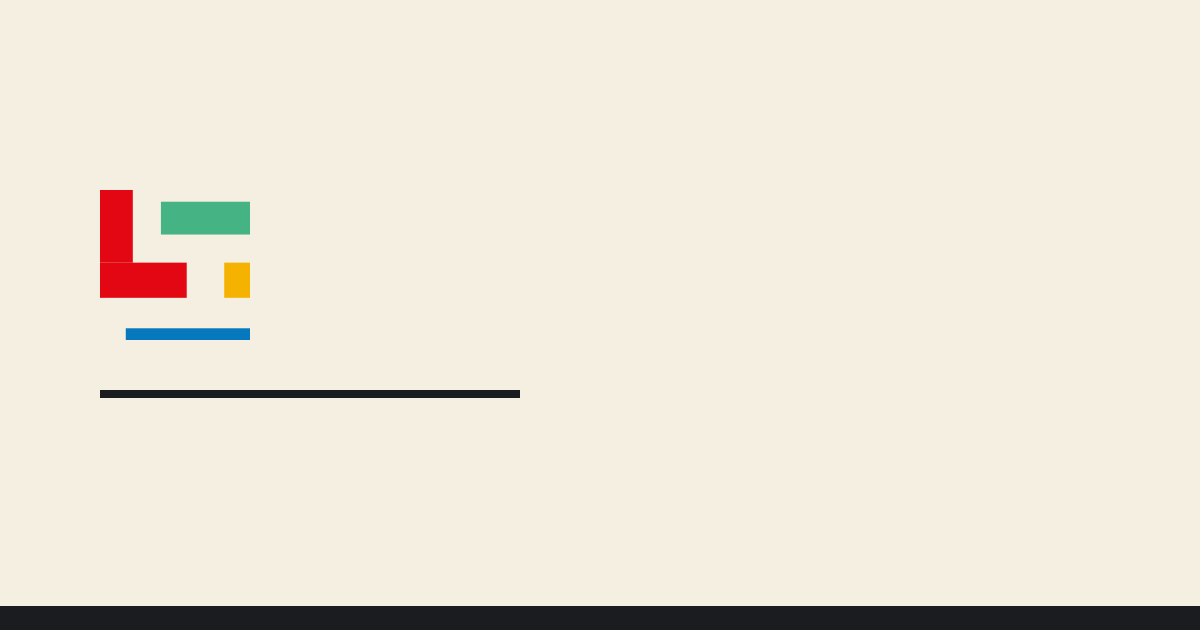
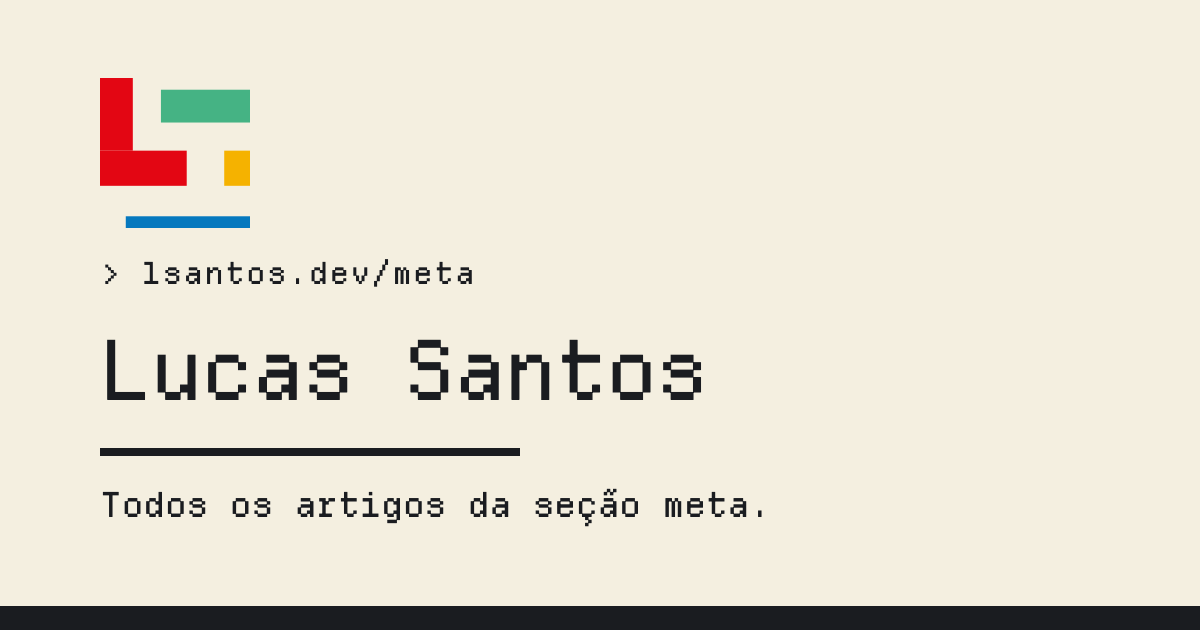
feat: social cards carry text, in the reader's language

diff --git a/scripts/build-og.ts b/scripts/build-og.ts
@@ -1,15 +1,43 @@
-// Generates the per-section social cards. Placeholders until the real design.
+/**
+ * Generates the per-section social cards.
+ *
+ *   node scripts/build-og.ts
+ *
+ * Rendered in Chromium rather than a rasteriser: the card carries text in
+ * Departure Mono, and the browser is the only thing here that reads a woff2.
+ * The output is committed, so this runs by hand, never in the build.
+ */
 import { mkdirSync, readFileSync, writeFileSync } from 'node:fs'
 import { join } from 'node:path'
-import sharp from 'sharp'
+import { chromium } from '@playwright/test'
 import { bold, count, dim, heading, ok } from './lib/cli.ts'
 import { LIGHT_GROUND } from '../src/lib/grounds.mjs'
 
 const OUT_DIR = 'public/og'
-const WIDTH = 1200
-const HEIGHT = 630
+// Mirrors OG_CARD_WIDTH, OG_CARD_HEIGHT and SITE_NAME in src/lib/seo.ts, which
+// this cannot import: that module reaches the Astro-only extensionless imports.
+const OG_CARD_WIDTH = 1200
+const OG_CARD_HEIGHT = 630
+const SITE_NAME = 'lsantos.dev'
 const PAPER = LIGHT_GROUND
 const INK = '#1a1c20'
+
+// The two sentences each language already puts in its own meta description, so
+// the card and the page it belongs to say one thing. `homeDescription` and
+// `sectionDescription` in src/i18n/ui.ts are the originals. Portuguese writes to
+// `public/og/`, English to `public/og/en/`, matching the routes.
+const LOCALES = {
+  pt: {
+    prefix: '',
+    home: 'Artigos sobre desenvolvimento, tecnologia e opinião.',
+    section: (name: string) => `Todos os artigos da seção ${name}.`,
+  },
+  en: {
+    prefix: 'en/',
+    home: 'Articles about software development, technology and opinion.',
+    section: (name: string) => `Every article in the ${name} section.`,
+  },
+}
 
 // One accent per section, taken from the brand mark's four colours.
 const SECTIONS: Record<string, string> = {
@@ -23,40 +51,69 @@ const SECTIONS: Record<string, string> = {
   meta: '#1a1c20',
 }
 
-heading(`build-og: rendering ${Object.keys(SECTIONS).length} section cards`)
-
 const mark = readFileSync('public/favicon.svg', 'utf8')
+const face = readFileSync('public/fonts/DepartureMono-Regular.woff2').toString('base64')
 
-mkdirSync(OUT_DIR, { recursive: true })
+type Copy = (typeof LOCALES)[keyof typeof LOCALES]
 
-for (const [name, accent] of Object.entries(SECTIONS)) {
-  const logo = await sharp(Buffer.from(mark)).resize(150, 150).png().toBuffer()
-
-  // No text: a rasteriser has no fonts guaranteed to be present, and a card
-  // that fails to build is worse than one without a label.
-  const canvas = sharp({
-    create: { width: WIDTH, height: HEIGHT, channels: 4, background: PAPER },
-  }).composite([
-    { input: logo, top: 190, left: 100 },
-    {
-      input: Buffer.from(
-        `<svg width="${WIDTH}" height="24"><rect width="${WIDTH}" height="24" fill="${accent}"/></svg>`,
-      ),
-      top: HEIGHT - 24,
-      left: 0,
-    },
-    {
-      input: Buffer.from(
-        `<svg width="420" height="8"><rect width="420" height="8" fill="${INK}"/></svg>`,
-      ),
-      top: 390,
-      left: 100,
-    },
-  ])
-
-  const png = await canvas.png().toBuffer()
-  writeFileSync(join(OUT_DIR, `${name}.png`), png)
-  console.log(`  ${bold(`${name}.png`)} ${WIDTH}x${HEIGHT} ${dim(`(${(png.length / 1024).toFixed(1)}kB)`)}`)
+function card(section: string, accent: string, copy: Copy): string {
+  const home = section === 'default'
+  const label = `${SITE_NAME}/${copy.prefix}${home ? '' : section}`.replace(/\/$/, '')
+  const tagline = home ? copy.home : copy.section(section)
+  return `<!doctype html><meta charset="utf-8"><style>
+@font-face {
+  font-family: 'Departure Mono';
+  src: url(data:font/woff2;base64,${face}) format('woff2');
+}
+* { margin: 0; box-sizing: border-box; }
+body {
+  inline-size: ${OG_CARD_WIDTH}px;
+  block-size: ${OG_CARD_HEIGHT}px;
+  display: flex;
+  flex-direction: column;
+  justify-content: center;
+  gap: 26px;
+  padding: 0 100px;
+  border-block-end: 24px solid ${accent};
+  background: ${PAPER};
+  color: ${INK};
+  font-family: 'Departure Mono', monospace;
+}
+svg { inline-size: 150px; block-size: 150px; }
+.label { color: ${accent}; font-size: 30px; letter-spacing: 0.06em; }
+h1 { font-size: 82px; font-weight: 400; letter-spacing: -0.02em; }
+p { max-inline-size: 800px; font-size: 34px; line-height: 1.35; }
+hr { inline-size: 420px; block-size: 8px; border: 0; background: ${INK}; }
+</style>
+${mark}
+<div class="label">&gt; ${label}</div>
+<h1>Lucas Santos</h1>
+<hr>
+<p>${tagline}</p>`
 }
 
-ok(`wrote ${count(Object.keys(SECTIONS).length, 'card', 'cards')} to ${OUT_DIR}`)
+const total = Object.keys(SECTIONS).length * Object.keys(LOCALES).length
+
+heading(`build-og: rendering ${total} section cards`)
+
+const browser = await chromium.launch()
+const page = await browser.newPage({ viewport: { width: OG_CARD_WIDTH, height: OG_CARD_HEIGHT } })
+
+for (const copy of Object.values(LOCALES)) {
+  const dir = join(OUT_DIR, copy.prefix)
+  mkdirSync(dir, { recursive: true })
+
+  for (const [name, accent] of Object.entries(SECTIONS)) {
+    await page.setContent(card(name, accent, copy))
+    await page.evaluate(() => document.fonts.ready)
+    const png = await page.screenshot()
+    writeFileSync(join(dir, `${name}.png`), png)
+    console.log(
+      `  ${bold(`${copy.prefix}${name}.png`)} ${OG_CARD_WIDTH}x${OG_CARD_HEIGHT} ${dim(`(${(png.length / 1024).toFixed(1)}kB)`)}`,
+    )
+  }
+}
+
+await browser.close()
+
+ok(`wrote ${count(total, 'card', 'cards')} to ${OUT_DIR}`)

diff --git a/src/lib/seo.ts b/src/lib/seo.ts
@@ -46,15 +46,20 @@ const OG_SECTION_CARDS = [
 export const OG_CARD_WIDTH = 1200
 export const OG_CARD_HEIGHT = 630
 
+// Portuguese cards are the root of `public/og/`, every translated set a
+// directory named after its language. Also in sync with `scripts/build-og.ts`.
+const OG_CARD_LOCALES = ['en']
+
 /**
  * Takes the section URL, not its display name: the file is named after the URL.
  * The last segment is what names the card, because the English routes pass a
  * locale-prefixed path (`/en/infra/`) that the breadcrumb needs.
  */
-export function sectionOgImage(sectionUrl?: string): string {
+export function sectionOgImage(lang: string, sectionUrl?: string): string {
+  const dir = OG_CARD_LOCALES.includes(lang) ? `${lang}/` : ''
   const section = sectionUrl?.replace(/^\/+|\/+$/g, '').split('/').at(-1)
-  if (section && OG_SECTION_CARDS.includes(section)) return `/og/${section}.png`
-  return '/og/default.png'
+  const card = section && OG_SECTION_CARDS.includes(section) ? section : 'default'
+  return `/og/${dir}${card}.png`
 }
 
 type PageType = 'website' | 'article'
